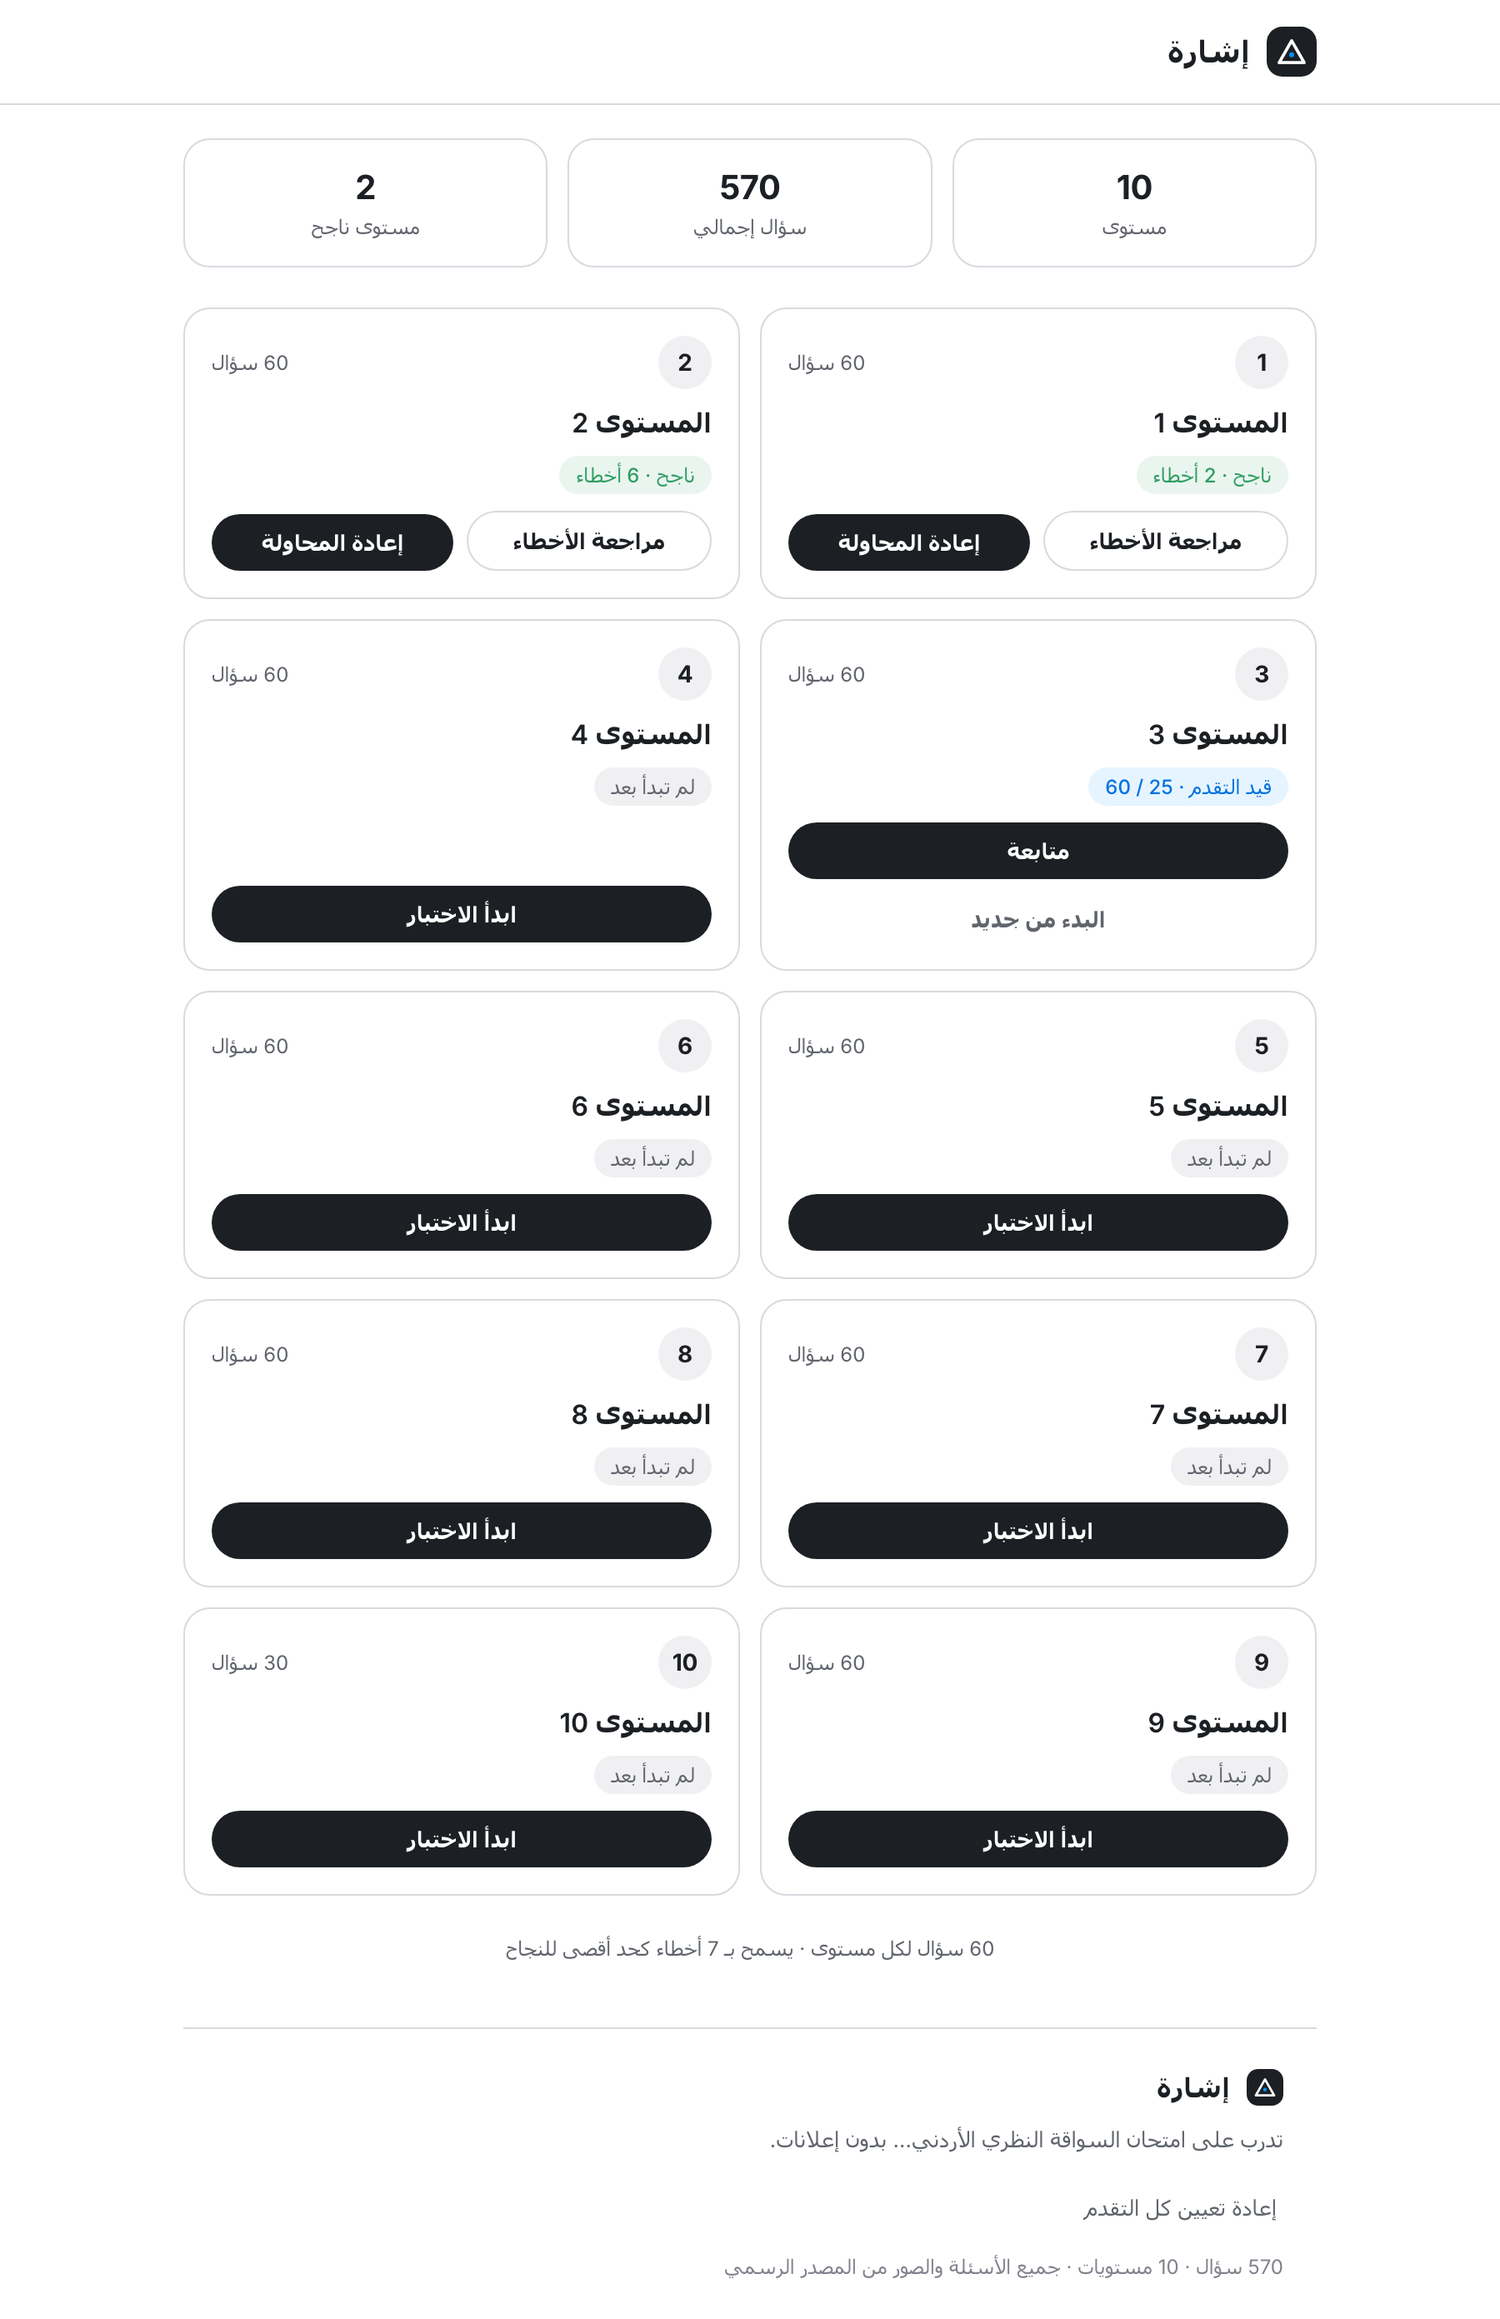
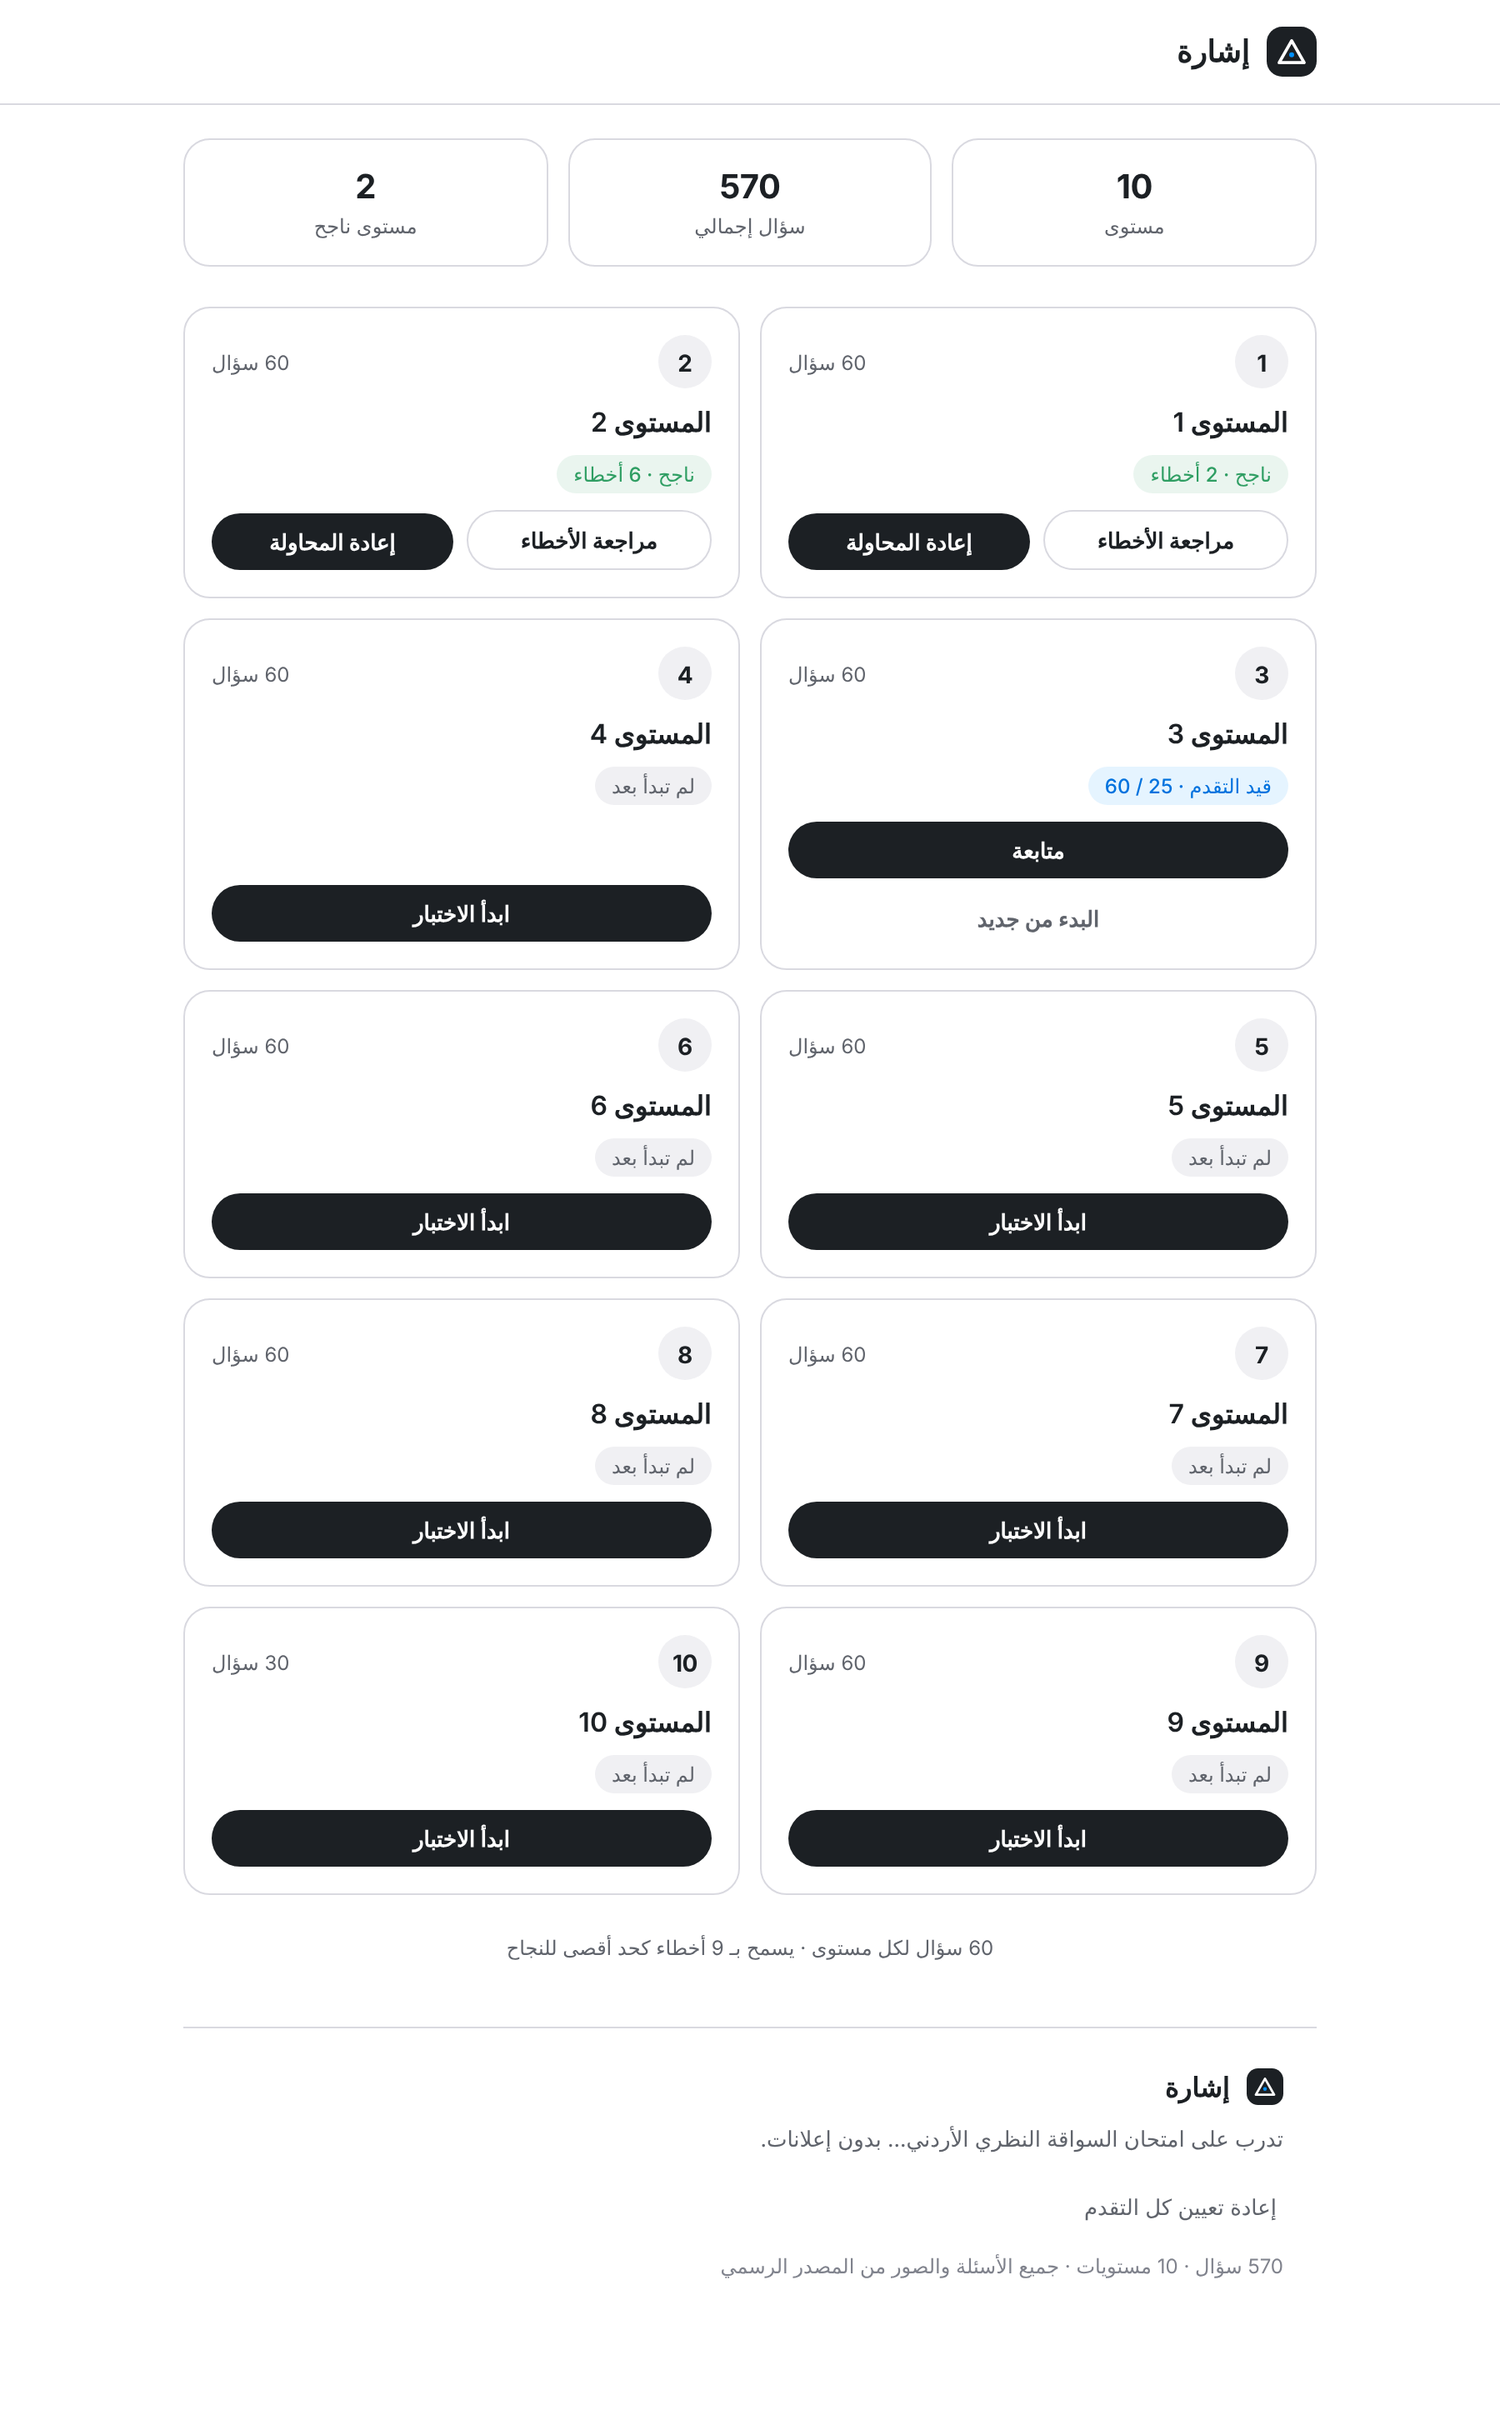
Add hint button and raise allowed wrong answers from 7 to 9
- Add a per-question hint button (تلميح) that marks the correct option
  green (✓) and all wrong options red (✕); toggleable, persisted per
  question in the in-progress attempt (legacy saves without hints resume
  cleanly). Hints do not affect scoring.
- Raise the wrong-answer limit to 9 (10th wrong ends the attempt). The
  limit is now a single constant (MAX_WRONG_PER_EXAM) and the home
  footnote is rendered from it. The 30-question bonus level scales to 5.
- Share the ✓/✕ option marker styles between the quiz and the review.
- Update README and regenerate stale screenshots; add quiz-hint.png.

Claude-Session: https://claude.ai/code/session_01HpiUnTuRuND95W5ek999eu

diff --git a/js/app.js b/js/app.js
@@ -3,6 +3,11 @@
 
   var STORAGE_KEY = "jdt_progress_v1";
 
+  /* Exam rules: a full level is 60 questions and up to 9 wrong answers are
+     allowed. Shorter levels (the 30-question bonus round) scale proportionally. */
+  var QUESTIONS_PER_EXAM = 60;
+  var MAX_WRONG_PER_EXAM = 9;
+
   /* ---------------- storage helpers ---------------- */
   function loadProgress() {
     try {
@@ -26,7 +31,7 @@
   }
 
   function allowedWrong(total) {
-    return Math.max(1, Math.round((total * 7) / 60));
+    return Math.max(1, Math.round((total * MAX_WRONG_PER_EXAM) / QUESTIONS_PER_EXAM));
   }
 
   function findLevel(id) {
@@ -62,6 +67,9 @@
       var lp = progress[l.id];
       return lp && lp.last && lp.last.passed;
     }).length;
+
+    document.getElementById("footnote").textContent =
+      QUESTIONS_PER_EXAM + " سؤال لكل مستوى · يسمح بـ " + MAX_WRONG_PER_EXAM + " أخطاء كحد أقصى للنجاح";
 
     var statsEl = document.getElementById("overall-stats");
     statsEl.innerHTML =
@@ -149,6 +157,7 @@
   var currentLevelId = null;
   var currentQuestions = null;
   var currentAnswers = null;
+  var currentHints = null; // per question: true once the user revealed the hint
   var currentIndex = 0;
 
   function beginLevel(levelId, resume) {
@@ -159,11 +168,17 @@
       currentQuestions = lp.inProgress.questions;
       currentAnswers = lp.inProgress.answers.slice();
       currentIndex = lp.inProgress.current || 0;
+      // Attempts saved before hints existed have no `hints` array.
+      var savedHints = lp.inProgress.hints;
+      currentHints = Array.isArray(savedHints) && savedHints.length === currentQuestions.length
+        ? savedHints.slice()
+        : new Array(currentQuestions.length).fill(false);
     } else {
       currentQuestions = shuffleQuestions(level.questions);
       currentAnswers = new Array(currentQuestions.length).fill(null);
+      currentHints = new Array(currentQuestions.length).fill(false);
       currentIndex = 0;
-      setLevelProgress(levelId, { last: lp.last, inProgress: { questions: currentQuestions, answers: currentAnswers, current: 0 } });
+      setLevelProgress(levelId, { last: lp.last, inProgress: { questions: currentQuestions, answers: currentAnswers, hints: currentHints, current: 0 } });
     }
     currentLevelId = levelId;
     document.getElementById("quiz-level-title").textContent = "المستوى " + levelId;
@@ -173,7 +188,7 @@
 
   function persistInProgress() {
     var lp = getLevelProgress(currentLevelId);
-    setLevelProgress(currentLevelId, { last: lp.last, inProgress: { questions: currentQuestions, answers: currentAnswers, current: currentIndex } });
+    setLevelProgress(currentLevelId, { last: lp.last, inProgress: { questions: currentQuestions, answers: currentAnswers, hints: currentHints, current: currentIndex } });
   }
 
   function renderQuestion() {
@@ -197,13 +212,23 @@
       img.removeAttribute("src");
     }
 
+    var hinted = currentHints[currentIndex] === true;
+    document.getElementById("btn-hint").textContent = hinted ? "إخفاء التلميح" : "تلميح";
+
     var list = document.getElementById("options-list");
     list.innerHTML = "";
     q.opts.forEach(function (optText, idx) {
       var div = document.createElement("div");
       div.className = "option";
       if (currentAnswers[currentIndex] === idx) div.classList.add("selected");
-      div.innerHTML = '<span>' + escapeHtml(optText) + '</span><span class="opt-dot"></span>';
+
+      var marker = '<span class="opt-dot"></span>';
+      if (hinted) {
+        var isCorrect = idx === q.correct;
+        div.classList.add(isCorrect ? "correct" : "wrong");
+        marker = '<span class="opt-icon">' + (isCorrect ? "✓" : "✕") + '</span>';
+      }
+      div.innerHTML = '<span>' + escapeHtml(optText) + '</span>' + marker;
       div.addEventListener("click", function () {
         currentAnswers[currentIndex] = idx;
         persistInProgress();
@@ -231,6 +256,12 @@
     d.textContent = str;
     return d.innerHTML;
   }
+
+  document.getElementById("btn-hint").addEventListener("click", function () {
+    currentHints[currentIndex] = !currentHints[currentIndex];
+    persistInProgress();
+    renderQuestion();
+  });
 
   document.getElementById("btn-prev").addEventListener("click", function () {
     if (currentIndex > 0) {

diff --git a/css/style.css b/css/style.css
@@ -267,6 +267,30 @@ button { font-family: inherit; }
   margin-bottom: 8px;
 }
 
+.q-head {
+  display: flex;
+  align-items: center;
+  justify-content: space-between;
+  gap: 12px;
+  margin-bottom: 8px;
+}
+.q-head .q-number { margin-bottom: 0; }
+
+.hint-btn {
+  border: 1px solid var(--mist);
+  background: var(--canvas);
+  color: var(--deep-signal);
+  border-radius: var(--radius-btn);
+  padding: 6px 14px;
+  font-size: 13px;
+  font-weight: 600;
+  cursor: pointer;
+  flex-shrink: 0;
+  transition: background 0.15s ease, transform 0.1s ease;
+}
+.hint-btn:hover { background: var(--signal-tint); }
+.hint-btn:active { transform: scale(0.97); }
+
 .q-text {
   font-size: 18px;
   font-weight: 600;
@@ -349,6 +373,27 @@ button { font-family: inherit; }
 }
 .option.wrong .opt-dot { border-color: var(--danger); background: var(--danger); }
 .option.dim { opacity: 0.6; background: var(--canvas); }
+
+/* When the hint is on, keep the user's pick visible: a thicker border ring
+   (inset, so the layout doesn't shift) and bolder text. */
+.option.selected.correct { box-shadow: inset 0 0 0 1px var(--success); font-weight: 600; }
+.option.selected.wrong { box-shadow: inset 0 0 0 1px var(--danger); font-weight: 600; }
+
+/* ✓ / ✕ marker used by the review list and by the in-quiz hint */
+.opt-icon {
+  font-size: 12px;
+  font-weight: 700;
+  width: 18px;
+  height: 18px;
+  border-radius: 50%;
+  display: flex;
+  align-items: center;
+  justify-content: center;
+  flex-shrink: 0;
+  color: var(--canvas);
+}
+.option.correct .opt-icon { background: var(--success); }
+.option.wrong .opt-icon { background: var(--danger); }
 
 .quiz-nav {
   position: sticky;
@@ -445,20 +490,6 @@ button { font-family: inherit; }
 .review-item .q-number { margin-bottom: 6px; }
 .review-item .q-text { font-size: 16px; margin-bottom: 12px; }
 .review-item .options-list .option { cursor: default; }
-.review-item .opt-icon {
-  font-size: 12px;
-  font-weight: 700;
-  width: 18px;
-  height: 18px;
-  border-radius: 50%;
-  display: flex;
-  align-items: center;
-  justify-content: center;
-  flex-shrink: 0;
-  color: var(--canvas);
-}
-.review-item .option.correct .opt-icon { background: var(--success); }
-.review-item .option.wrong .opt-icon { background: var(--danger); }
 
 /* ---------- Footer ---------- */
 .site-footer {

diff --git a/index.html b/index.html
@@ -31,7 +31,7 @@
 
     <div class="levels-grid" id="levels-grid"></div>
 
-    <p class="footnote">60 سؤال لكل مستوى &middot; يسمح بـ 7 أخطاء كحد أقصى للنجاح</p>
+    <p class="footnote" id="footnote"></p>
 
     <footer class="site-footer">
       <div class="footer-brand">
@@ -67,7 +67,10 @@
 
   <main class="content quiz-content">
     <div class="question-card">
-      <div class="q-number" id="q-number">السؤال 1</div>
+      <div class="q-head">
+        <div class="q-number" id="q-number">السؤال 1</div>
+        <button id="btn-hint" class="hint-btn" type="button">تلميح</button>
+      </div>
       <p class="q-text" id="q-text"></p>
       <div class="q-image-wrap" id="q-image-wrap" hidden>
         <img id="q-image" alt="صورة توضيحية للسؤال">
@@ -107,7 +110,7 @@
         <div class="score-label">إجابات خاطئة</div>
       </div>
       <div class="score-box">
-        <div class="score-num" id="score-allowed">7</div>
+        <div class="score-num" id="score-allowed">9</div>
         <div class="score-label">الحد المسموح للأخطاء</div>
       </div>
     </div>

diff --git a/README.md b/README.md
@@ -1,6 +1,6 @@
 # إشارة (Ishara) — Jordan Driving Theory Exam Practice
 
-A quiz website for practicing the Jordanian theoretical driving license exam. Built from a bank of **570 verified questions** (including road-sign images), split into **10 levels of 60 questions** to match the real exam format: 60 questions per attempt, up to **7 wrong answers** allowed — the exam stops immediately and marks you failed the moment an 8th wrong answer lands.
+A quiz website for practicing the Jordanian theoretical driving license exam. Built from a bank of **570 verified questions** (including road-sign images), split into **10 levels of 60 questions** to match the real exam format: 60 questions per attempt, up to **9 wrong answers** allowed — the exam stops immediately and marks you failed the moment a 10th wrong answer lands.
 
 No build step, no backend, no ads — just static HTML, CSS, and JavaScript.
 
@@ -21,8 +21,13 @@ Plain questions render cleanly with no leftover image placeholder.
 
 ![Quiz text only](screenshots/quiz-text.png)
 
+### Quiz — hint
+Stuck? Tap **تلميح** (Hint) on any question to reveal the answer: the correct option turns green with a ✓ and every wrong option turns red with a ✕. Tap again (**إخفاء التلميح**) to hide it. Hints are remembered per question, so they survive Previous/Next and resuming an attempt, and they never change your score — they're a study aid, not part of the exam.
+
+![Quiz with hint revealed](screenshots/quiz-hint.png)
+
 ### Results
-Nothing is revealed until you finish (or fail) — just like the real exam. Then you get a pass/fail verdict, your score, and a color-coded map of every question you reached.
+Unless you ask for a hint, nothing is revealed until you finish (or fail) — just like the real exam. Then you get a pass/fail verdict, your score, and a color-coded map of every question you reached.
 
 ![Results screen](screenshots/results-fail.png)
 
@@ -34,8 +39,9 @@ Jump into any wrong answer to see exactly what you picked versus the correct ans
 ## Features
 
 - **10 levels, 60 questions each** (last level is a 30-question bonus round), matching the real exam's format
-- **7 wrong answers allowed** — an 8th wrong answer ends the attempt immediately and marks it failed, mirroring how the real computerized exam cuts you off
+- **9 wrong answers allowed** — a 10th wrong answer ends the attempt immediately and marks it failed, mirroring how the real computerized exam cuts you off
 - **Exam-realistic flow**: answers aren't revealed question-by-question, only once the attempt ends
+- **Optional hint button** on every question: shows the correct answer (green ✓) and the wrong ones (red ✕) on demand
 - **Randomized question order** every attempt (answer choices stay in their original order)
 - **Full results breakdown**: pass/fail, correct/wrong counts, and a per-question color grid
 - **Answer review**: see your wrong answers next to the correct ones, with the original sign image where relevant
@@ -60,7 +66,7 @@ The question bank was extracted from four source Word documents (~150–160 ques
 | Total questions                   | 570                                                          |
 | Levels                            | 10 (9 × 60 + 1 × 30)                                         |
 | Questions with a road-sign image  | 282                                                          |
-| Pass threshold                    | 7 wrong (scaled proportionally for the 30-question level), 8th wrong ends the attempt |
+| Pass threshold                    | 9 wrong (scaled proportionally for the 30-question level: 5), 10th wrong ends the attempt |
 
 ## Project structure
 
